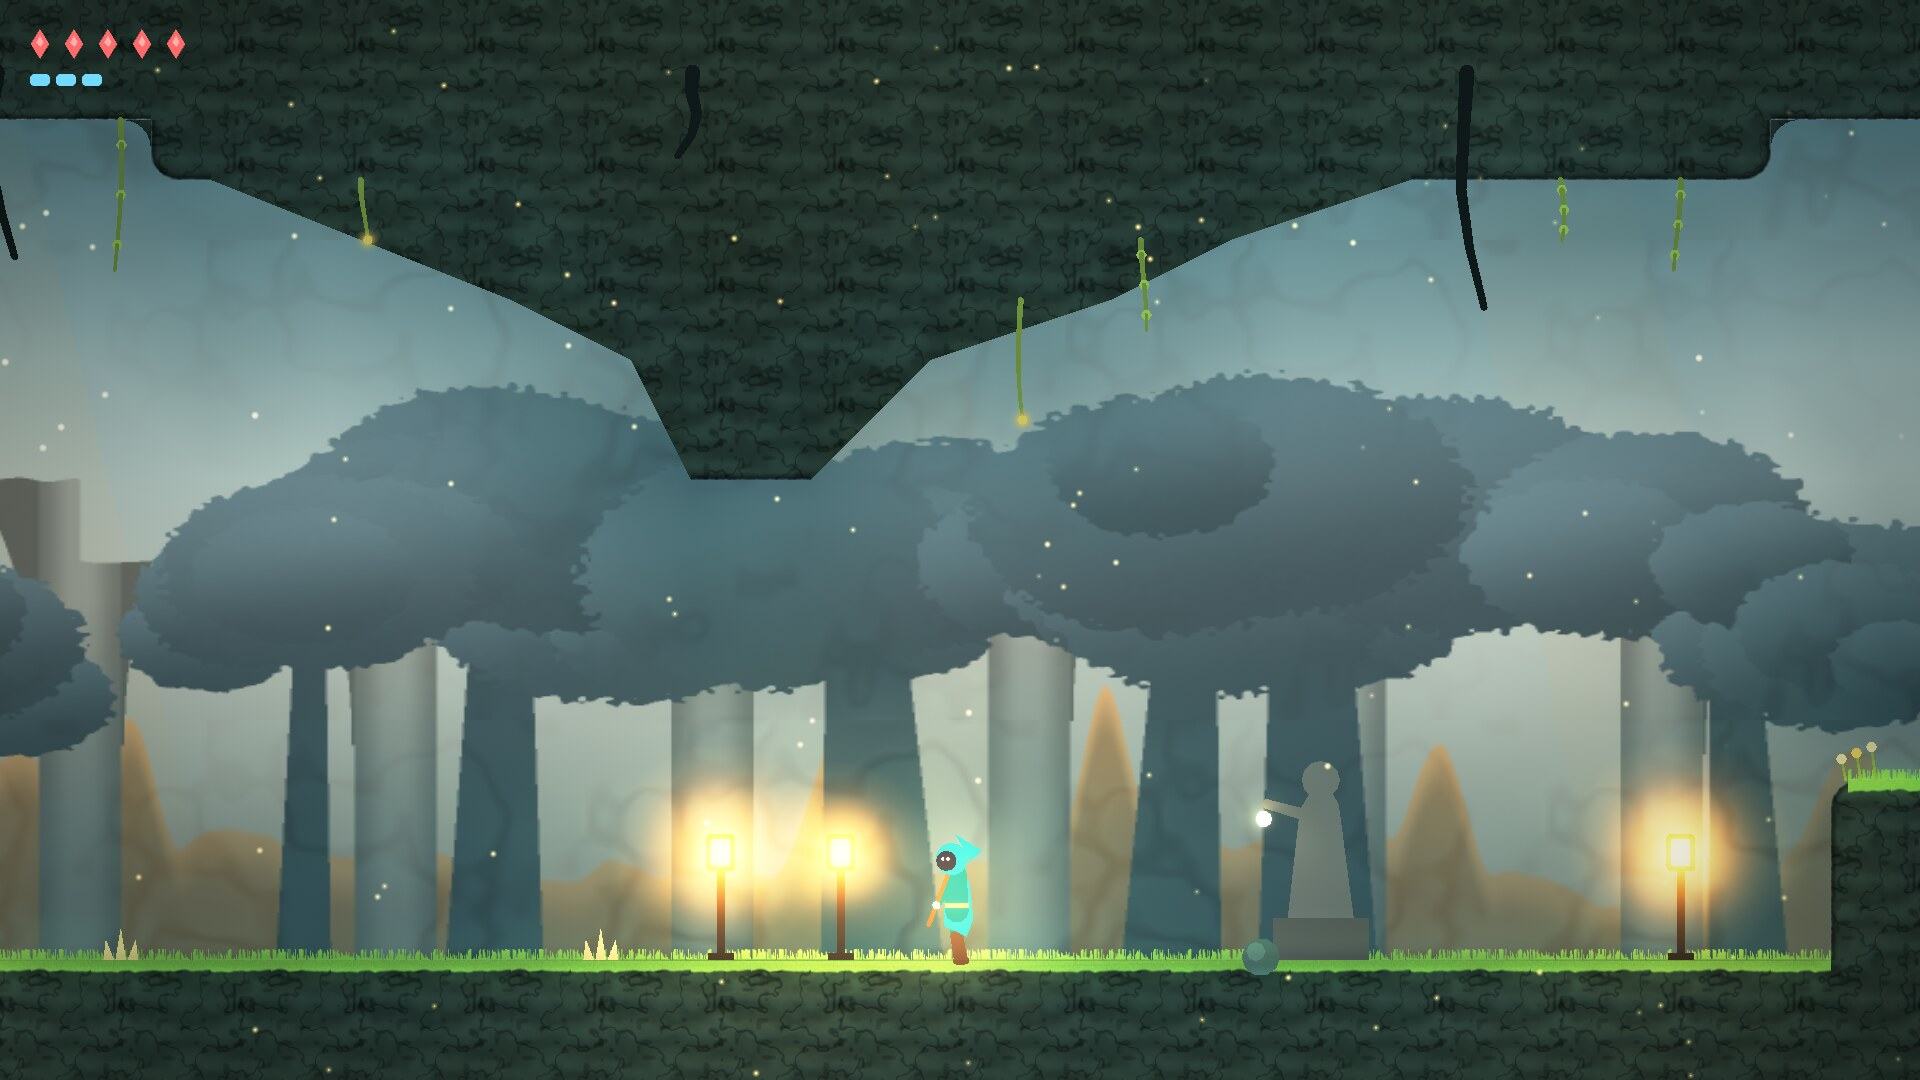
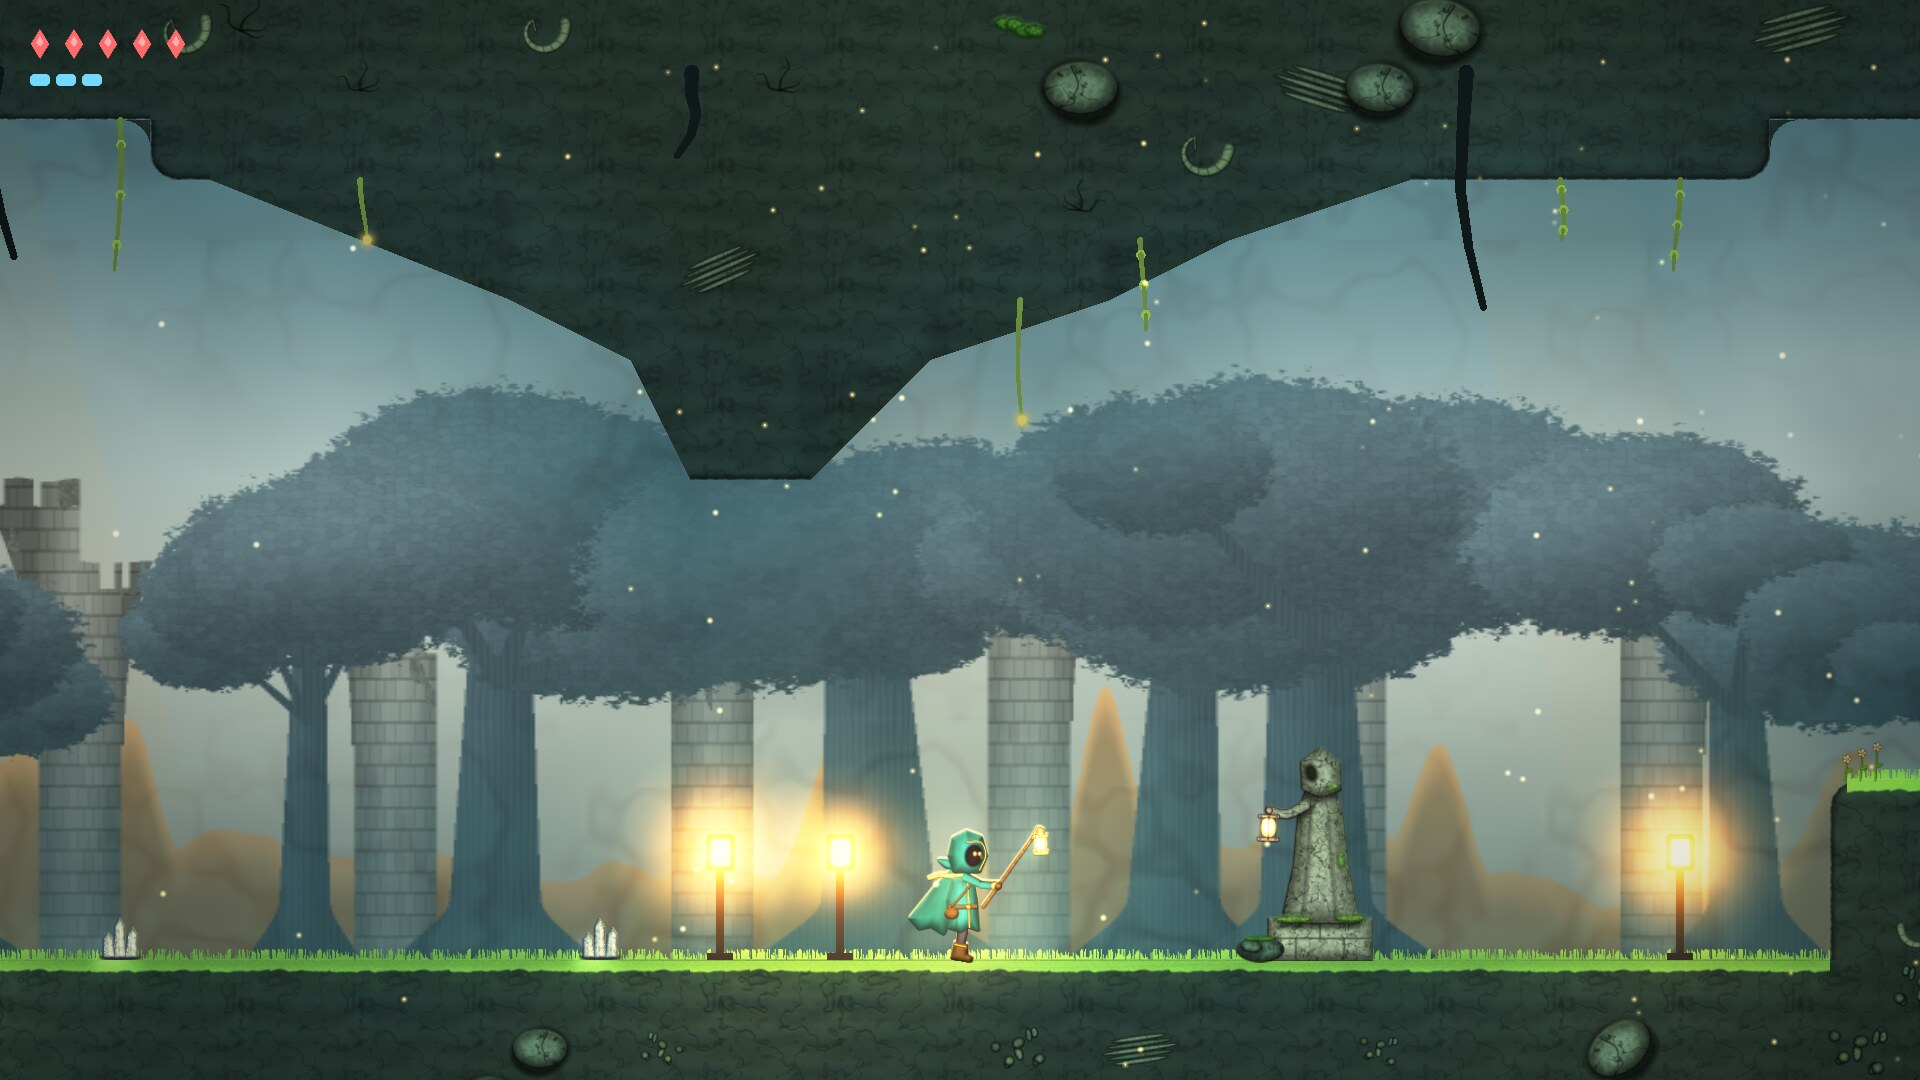
Lanternfall: refreshed launcher art and README picture; the hero's lantern held steady through the run; the creature check passes

diff --git a/games/lanternfall/src/creatures.c b/games/lanternfall/src/creatures.c
@@ -635,7 +635,7 @@ static void paint_enemies(void) {
     sap.em = 0.9f, sap.alpha = 0.8f, sap.soft = 8;
     el(0.5f, 0.72f, 0.26f, 0.2f, 0, &sap);
     pstyle spot = sty(0x2a4a14, 0x0a1a04, 0x5a8a30, 0.2f, TX_SKIN, 0.02f, 0.8f);
-    spot.alpha = 0.75f, spot.soft = 2;
+    spot.alpha = 0.9f, spot.soft = 1.5f;
     for (int i = 0; i < 18; i++) el(0.25f + hsh(i, 62) * 0.5f, 0.25f + hsh(i, 63) * 0.4f, 0.025f + hsh(i, 64) * 0.03f, 0.02f + hsh(i, 65) * 0.025f, 0, &spot);
     pstyle streak = sty(0xf0ffe0, 0, 0, 0.2f, TX_NONE, 0, 0);
     streak.alpha = 0.6f, streak.spec = 1;
@@ -661,9 +661,9 @@ static void paint_enemies(void) {
     pstyle clod = sty(0x6a5038, 0x2a1c10, 0xb09070, 0.7f, TX_STONE, 0.03f, 0.8f);
     clod.ink = 1.2f, clod.shadow = 0.4f;
     for (int i = 0; i < 9; i++) el(0.2f + 0.15f * (float)i, 0.42f - sinf((float)i / 8 * 3.14f) * 0.18f, 0.1f + hsh(i, 71) * 0.06f, 0.07f + hsh(i, 72) * 0.04f, hsh(i, 73), &clod);
-    static const uint32_t PEB[6] = { 0x8a8a84, 0xb08a50, 0x5a4a3a, 0xc8b8a0, 0x9a5a3a, 0x6a7a4a };
-    for (int i = 0; i < 22; i++) {
-      pstyle pb = sty(PEB[i % 6], 0, 0, 0.8f, TX_STONE, 0.015f, 0.6f);
+    static const uint32_t PEB[9] = { 0x8a8a84, 0xb08a50, 0x5a4a3a, 0xc8b8a0, 0x9a5a3a, 0x6a7a4a, 0xd0c070, 0x7a6a9a, 0xb0b0a8 };
+    for (int i = 0; i < 27; i++) {
+      pstyle pb = sty(PEB[i % 9], 0, 0, 0.8f, TX_STONE, 0.015f, 0.6f);
       pb.ink = 1, pb.seed = 120 + (uint32_t)i;
       el(0.15f + hsh(i, 74) * 1.3f, 0.45f - hsh(i, 75) * 0.25f, 0.03f + hsh(i, 76) * 0.03f, 0.025f + hsh(i, 77) * 0.02f, 0, &pb);
     }
@@ -869,7 +869,7 @@ static void draw_moth(const enemy *e, float t, float tk) {
   /* wing angle from the body's up: open (tell) high and held, swept back in the swoop */
   float wa = tell ? -1.15f - flare * 0.25f + flap * 0.08f : act ? 0.55f + flap * 0.1f : -0.55f + flap * 0.55f;
   float wsy = tell ? 1.05f : act ? 0.65f : 0.75f + 0.25f * fabsf(flap);
-  float spot = tell ? 1.2f + 0.9f * flare : 1.15f;
+  float spot = tell ? 1.1f + 0.6f * flare : 1.1f;
   for (int side = -1; side <= 1; side += 2) { /* the far side's wings first (behind the body), a little darker */
     float sd = (float)side, k = side < 0 ? 0.62f : 1;
     cw_color c = { D.tint.r * k, D.tint.g * k, D.tint.b * k, 1 };
@@ -878,8 +878,8 @@ static void draw_moth(const enemy *e, float t, float tk) {
     putx(&E.fwing, rx, ry, fa, 1, wsy, side < 0, 0, c, true);
     /* the eyespot's blaze, where the spot sits on the turned wing */
     cw_vec2 sp = rot2(0.56f * sd, -0.19f * wsy, fa);
-    putg(&E.spot, rx + sp.x, ry + sp.y, 0, 0.55f + flare * 0.35f, 0.55f + flare * 0.35f, spot, (0.35f + 0.5f * flare) * k);
-    if (tell) halo_at(rx + sp.x, ry + sp.y, 0.3f + 0.6f * flare, (cw_color){ 0.4f, 0.9f, 1, 0.45f * flare });
+    putg(&E.spot, rx + sp.x, ry + sp.y, 0, 0.55f + flare * 0.35f, 0.55f + flare * 0.35f, spot, (0.3f + 0.3f * flare) * k);
+    if (tell) halo_at(rx + sp.x, ry + sp.y, 0.25f + 0.3f * flare, (cw_color){ 0.4f, 0.9f, 1, 0.3f * flare });
   }
   for (int k = 0; k < 3; k++) put(&E.mleg, 0.04f, cy + 0.05f, 1.2f + (float)k * 0.25f + sinf(t * 4 + (float)k) * 0.1f, 1, 1);
   put(&E.abdo, 0, cy + 0.08f, pitch + sinf(t * 2.2f) * 0.08f, 1, 1);
@@ -2041,7 +2041,7 @@ void creature_hero(const player *p, int i, int region, float t) {
   /* the pole's turn (0 points forward, -1.57 straight up): carried up and forward, the lantern out in front of the
    * face; a strike sweeps it through the strike's arc (forward: from over the shoulder down through the front; up:
    * from the front to overhead; down: from the front to below); held straight up while mending */
-  float sa = p->state == PS_CLING ? -1.9f : -0.95f + sinf(ph * 3.1416f) * 0.18f * sp + (air ? p->vy * 0.006f : 0);
+  float sa = p->state == PS_CLING ? -1.9f : -0.95f + (air ? p->vy * 0.006f : 0); /* (held steady through the run: a bright lamp must not bob) */
   if (p->atk_t > 0) {
     float k = 1 - (float)p->atk_t / 14.0f;
     k = 1 - (1 - k) * (1 - k); /* (fast through, easing at the end) */
@@ -2064,8 +2064,8 @@ void creature_hero(const player *p, int i, int region, float t) {
   float hx = sx + el.x + hn.x, hy = sy + el.y + hn.y;
   put(&h->staff, hx, hy, sa, 1, 1);
   cw_vec2 tip = rot2(1.2f, 0, sa);
-  float lx = hx + tip.x, ly = hy + tip.y + 0.02f;
-  putx(&h->lantern, lx, ly, hero_swing[i] + sinf(t * 2) * 0.04f, 1, 1, false, p->atk_t > 0 ? 1.6f : 3.0f, white(1), true); /* (dimmer as it sweeps: no streak of light) */
+  float lx = hx + tip.x, ly = hy + tip.y + 0.02f + bob; /* (the arm takes up the body's bob) */
+  putx(&h->lantern, lx, ly, hero_swing[i] + sinf(t * 2) * 0.04f, 1, 1, false, p->atk_t > 0 ? 1.5f : 2.2f, white(1), true); /* (dimmer as it sweeps: no streak of light) */
   put(&h->hand, hx, hy, 0, 1, 1);
   flush();
   cw_vec2 lw = W(lx, ly + 0.28f);
